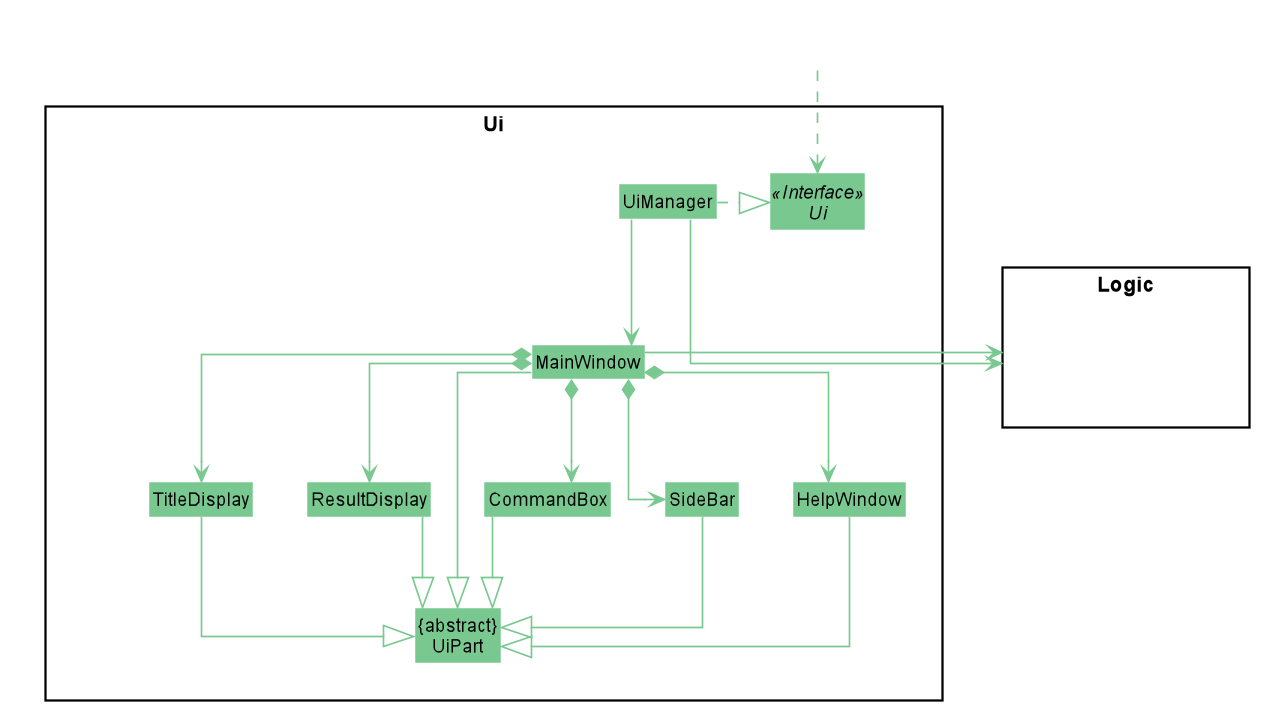
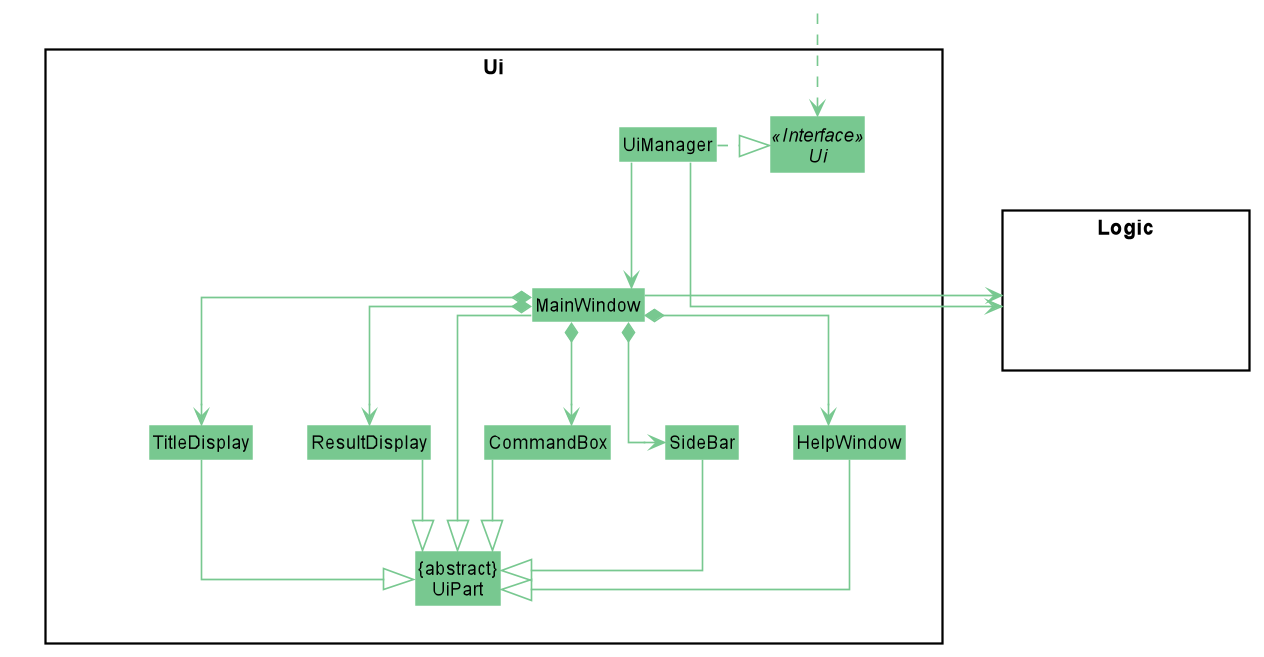
Resize images

diff --git a/docs/DeveloperGuide.md b/docs/DeveloperGuide.md
@@ -200,7 +200,7 @@ This segment will explain the structure and responsibilities of the `Model` comp
 #### **4.4.1. Structure**
 
 <p align="center">
-<img alt="Class diagram of Model component" src="images/developerGuide/ModelClassDiagram.png" ></p>
+<img alt="Class diagram of Model component" src="images/developerGuide/ModelClassDiagram.png" width="620"></p>
 
 <p align="center"><i>Figure 4.4.1.1 Simplified Class Diagram of <code>model</code> component</i></p>
 
@@ -244,7 +244,7 @@ This segment will explain the structure and responsibilities of the `Storage` co
 #### **4.5.1. Structure**
 
 <p align="center">
-<img alt="Class diagram of Storage component" src="images/developerGuide/StorageClassDiagram.png"/></p>
+<img alt="Class diagram of Storage component" src="images/developerGuide/StorageClassDiagram.png" width="500"></p>
 
 <p align="center"><i>Figure 4.5.1.1 Class diagram of <code>Storage</code> component.</i></p>
 
@@ -337,7 +337,7 @@ a `StudentManager` stores every `UniqueList` tagged to a `Group` as the key for 
 This enables retrieval of a specific `UniqueList` of `Student` items in a tutorial group.
 
 <p align="center">
-<img src="images/developerGuide/FeatureManagerDiagram.png" alt="Class diagram for GroupManager"></p>
+<img src="images/developerGuide/FeatureManagerDiagram.png" alt="Class diagram for GroupManager" width="380"></p>
 
 <p align="center"><i>Figure 5.1.2.1 Structure of <code>GroupManager</code>, an example of
 a <code>XYZManager</code> which stores a single <code>UniqueList</code></i></p>
@@ -368,7 +368,7 @@ The following steps describe the execution of `DelGrpCommand` in detail, assumin
 The sequence diagram below documents the execution.
 
 <p align="center">
-<img src="images/developerGuide/GroupManagerSequenceDiagram.png" alt="Class diagram for GroupManager"></p>
+<img src="images/developerGuide/GroupManagerSequenceDiagram.png" alt="Class diagram for GroupManager" width="590"></p>
 
 <p align="center"><i>Figure 5.2.2.1 Sequence diagram detailing execution of <code>DelGrpCommand</code></i></p>
 
@@ -565,7 +565,8 @@ of the lessons for each tutorial group. It does not allow the user to add questi
 In this section, we will outline the `findqn` command of the `QuestionManager` which is summarised by the
 Activity Diagram below.
 
-<p align="center"><img src="images/developerGuide/FindQnActivityDiagram.png" alt="Figure 5.6.2.1 Activity diagram of a findqn command" width="392px" height="592px"></p>
+<p align="center"><img src="images/developerGuide/FindQnActivityDiagram.png" alt="Figure 5.6.2.1 Activity diagram of a findqn command" width="330"></p>
+
 <p align="center"><i>Figure 5.6.2.1. Activity diagram of a <code>findqn</code> command</i></p>
 
 When the user enters the `findqn` command to search for questions, the user input command undergoes the same command
@@ -582,7 +583,8 @@ The following steps will describe the execution of the `FindQnCommand` in detail
 
 The Sequence Diagram below summarises the aforementioned steps.
 
-<p align="center"><img src="images/developerGuide/FindQnSequenceDiagram.png" alt="Figure 5.6.2.2 Sequence diagram detailing execution of FindQnCommand"></p>
+<p align="center"><img src="images/developerGuide/FindQnSequenceDiagram.png" alt="Figure 5.6.2.2 Sequence diagram detailing execution of FindQnCommand" width="550"></p>
+
 <p align="center"><i>Figure 5.6.2.2. Sequence diagram detailing execution of <code>FindQnCommand</code></i></p>
 
 #### **5.6.3. Design Consideration**
